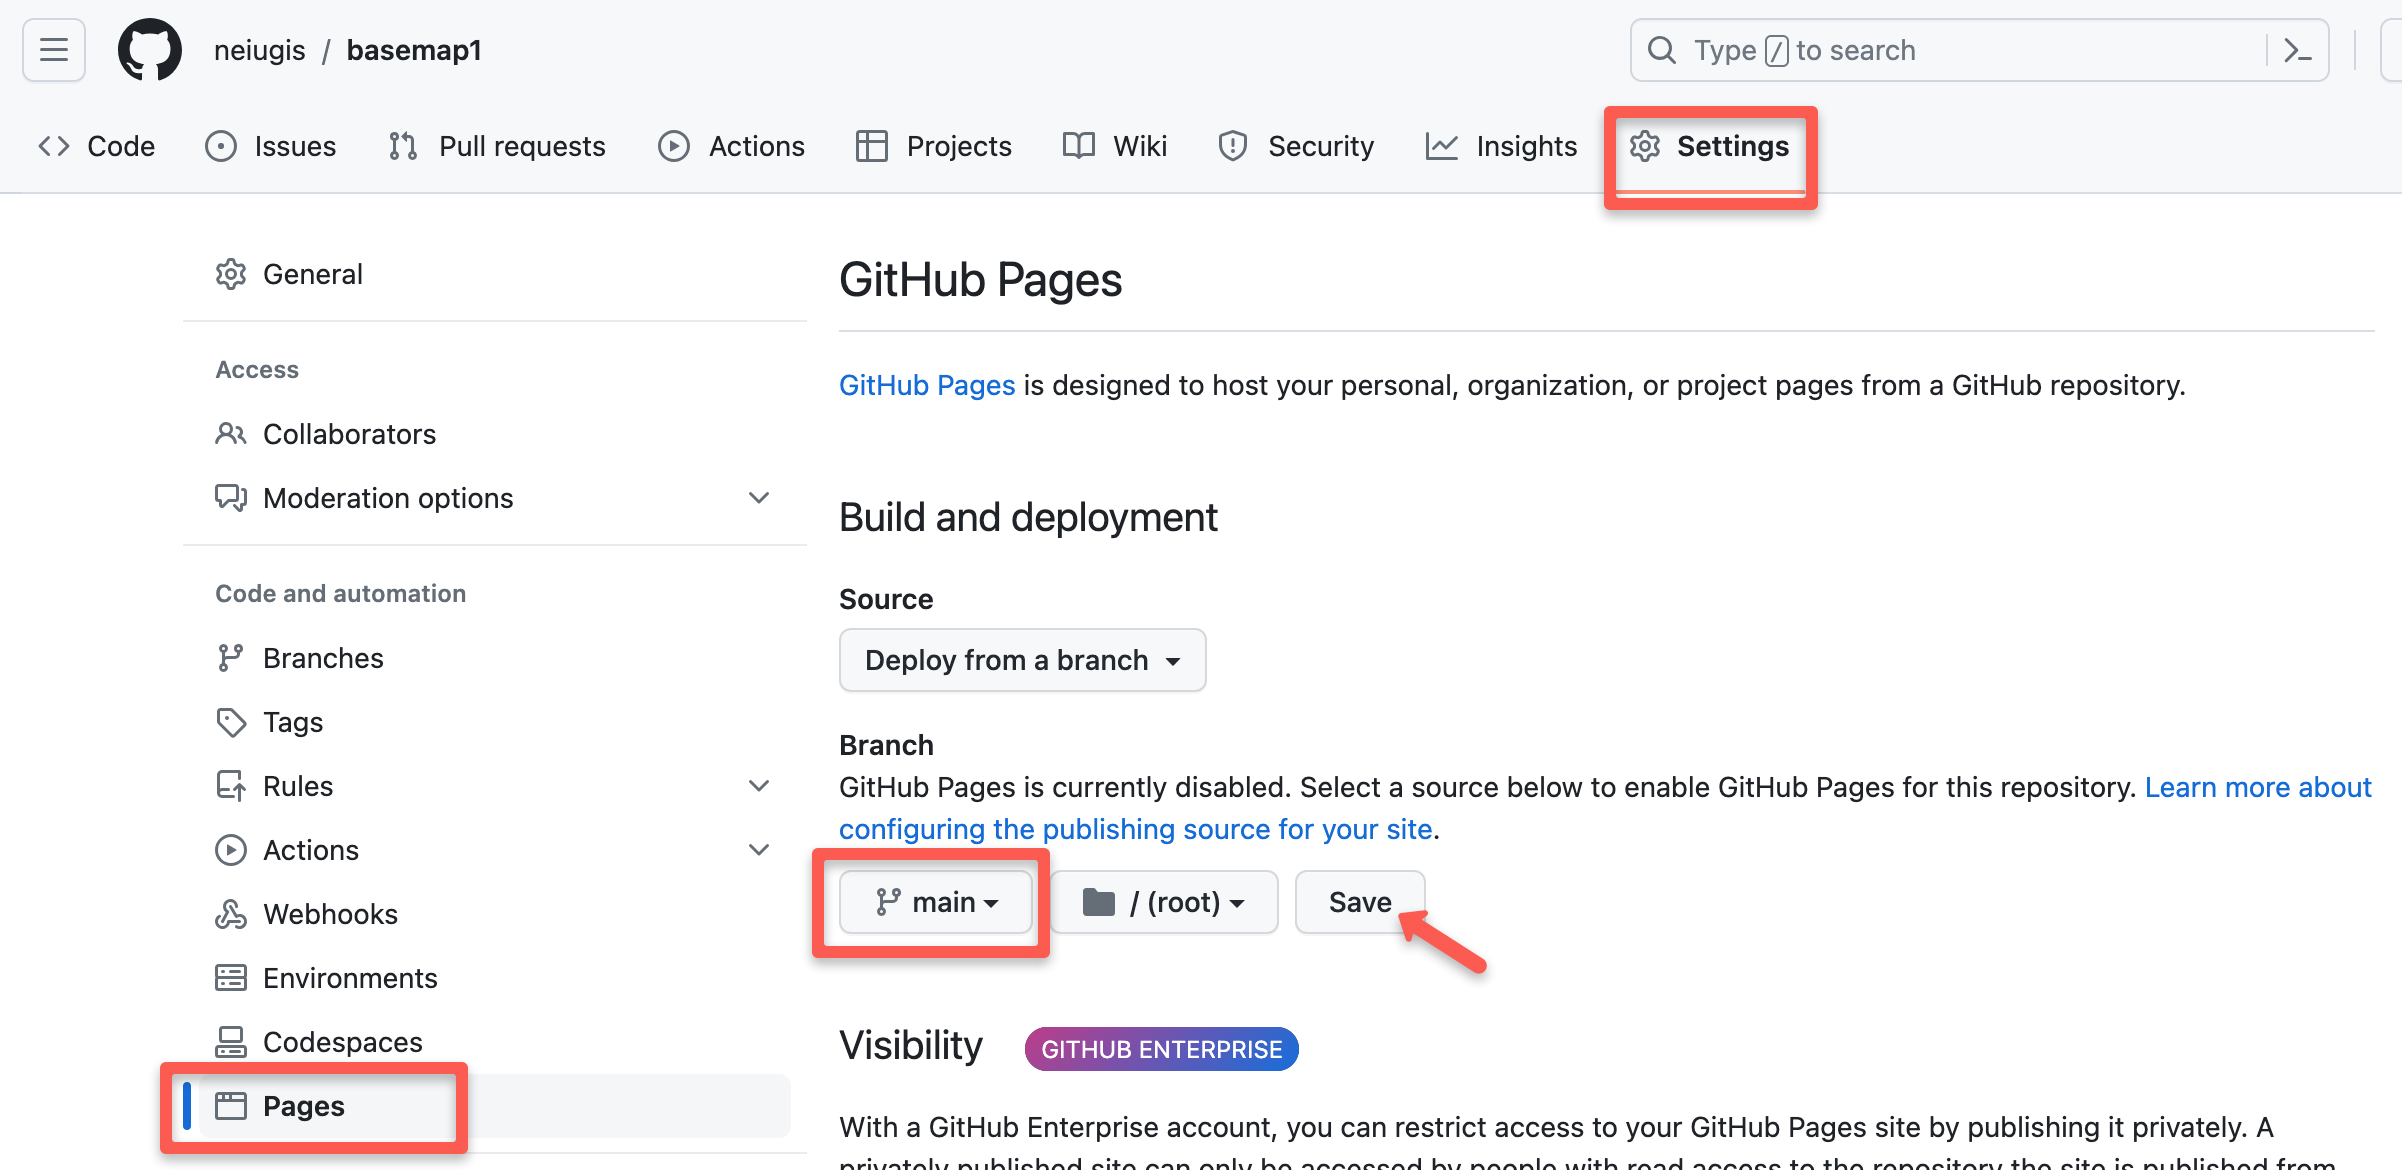
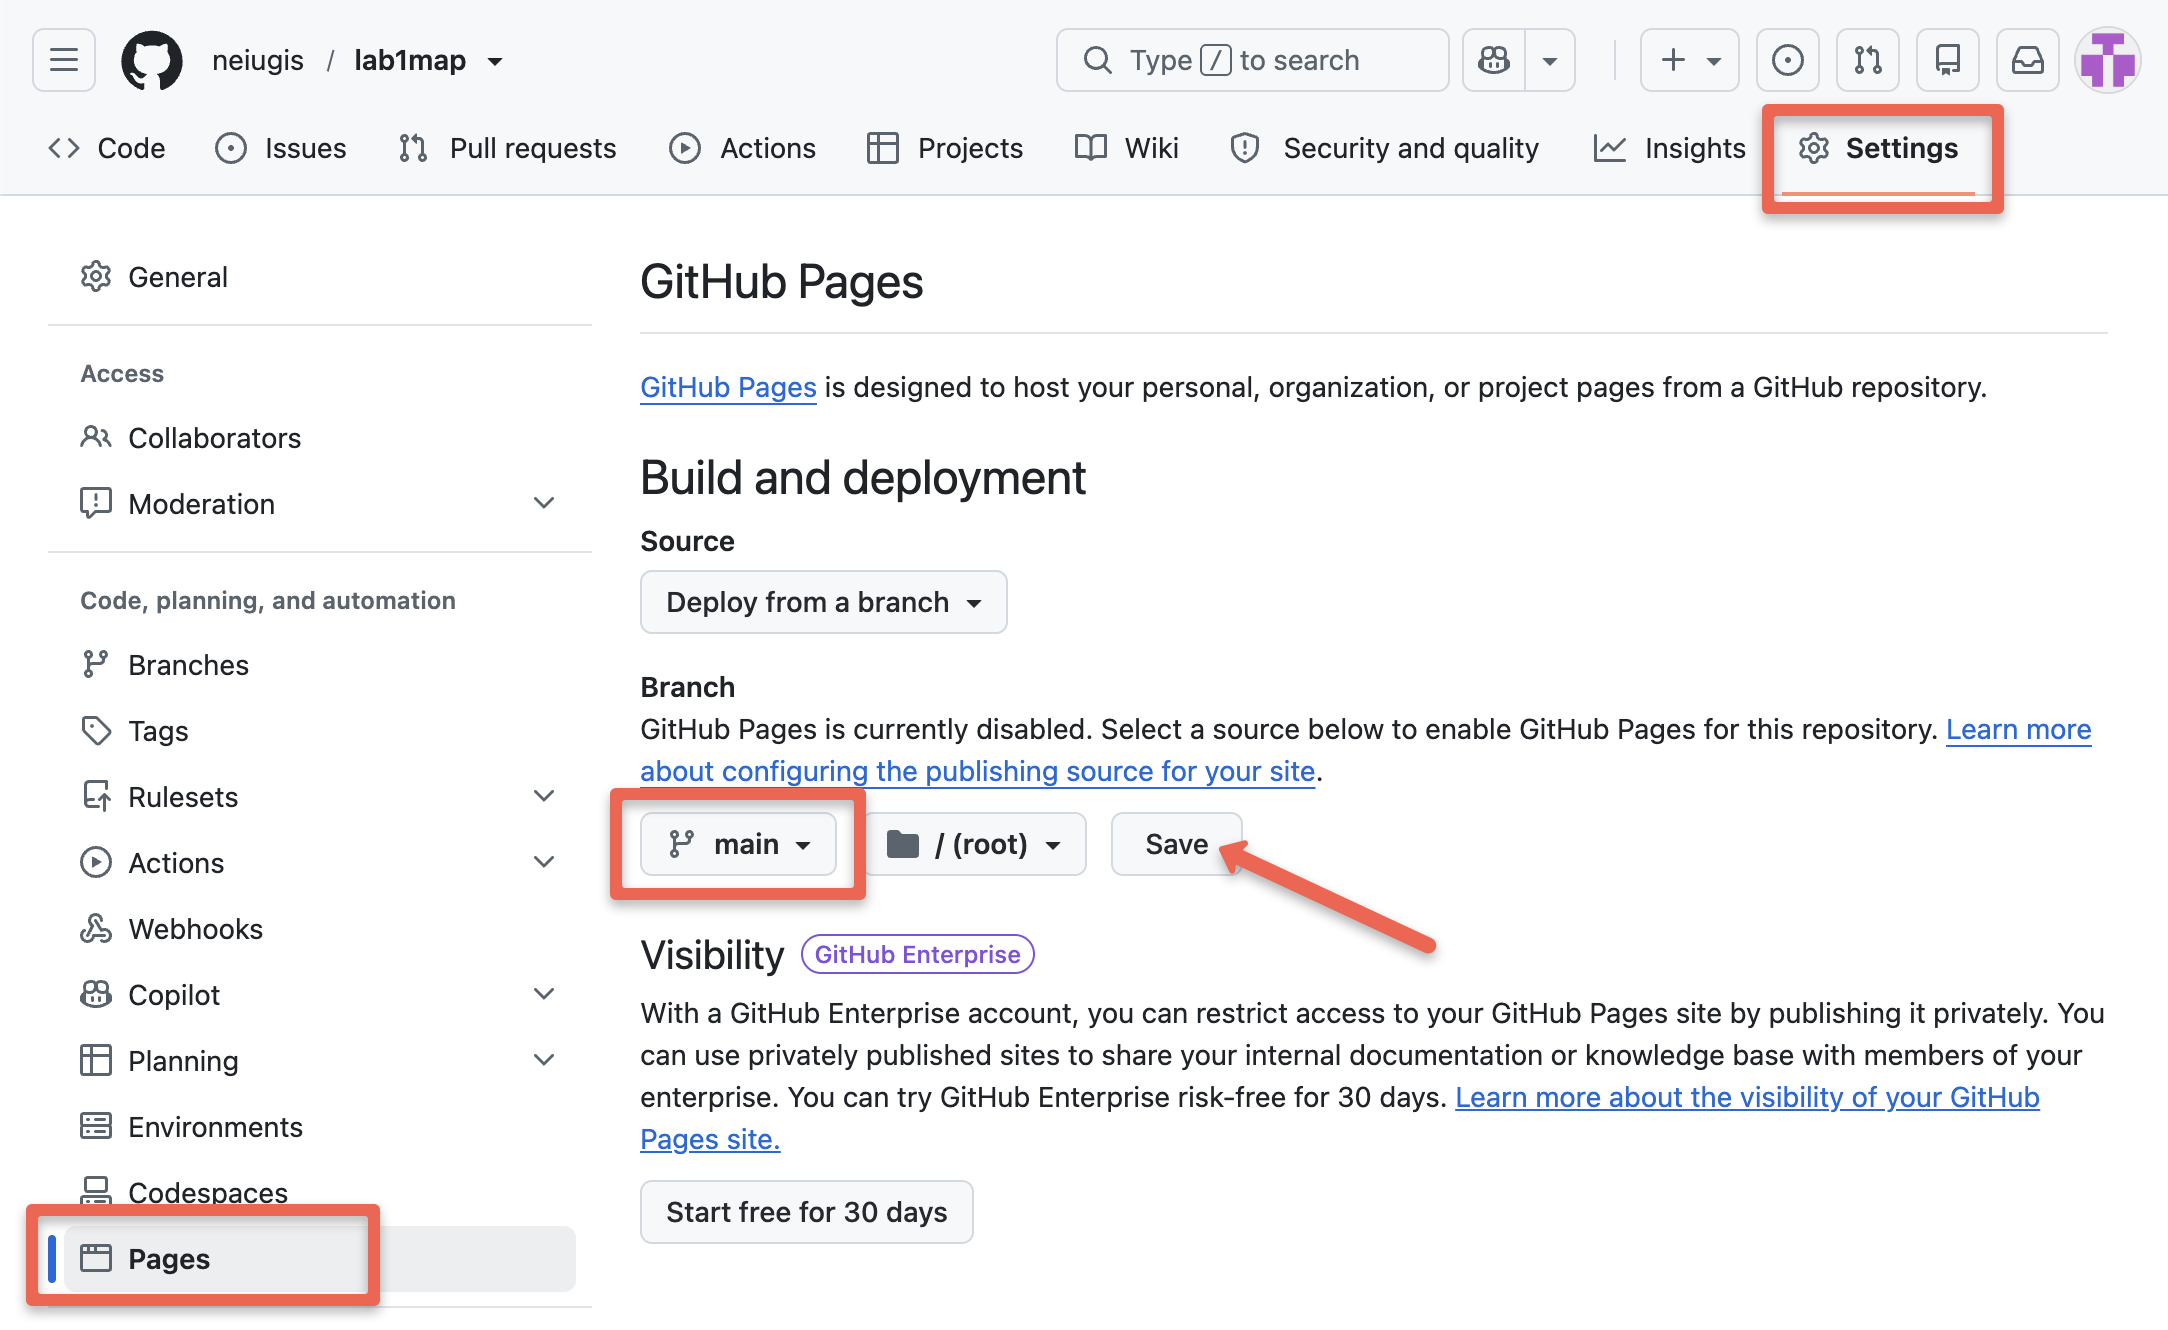
more

diff --git a/index.html b/index.html
@@ -58,7 +58,7 @@ No worries if the idea of branch doesn't make sense to you at this point (we wil
           <li>In the new repository, select <b>uploading an existing file</b>.</li><br><img src="img/upload.png" width=95%>
         <ul>
             <li>In your file folder, RENAME your final map to <code>index.html</code> and upload it to the GitHub repository. This is an important step as GitHub only recognizes <code>index.html</code> as the page to be published. </li>
-            <li>Under <b>Commit changes</b>, describe your upload.  Click <b>Commit changes</b>. <br><br><img src="img/commit.png" width=90%><br><br>Once the processing is complete, you should see the <code>index.html</code> in your repository page.</li>
+            <li>Under <b>Commit changes</b>, describe the change.  Click <b>Commit changes</b>. <br><br><img src="img/commit.png" width=90%><br><br>Once the processing is complete, you should see the <code>index.html</code> in your repository page.</li>
         </ul>
         <li>Click the <b>Settings</b> tab, if you cannot see the "Settings" tab, select the  dropdown menu, then click Settings. </li>
         <li>On the sidebar, click <b>Pages</b>. Under Branch, use the dropdown menu to select <code>main</code> and click on the <b>Save</b> button. Then select the <code>main</code> branch as the Source and click on the <b>Save</b> button. <br>
